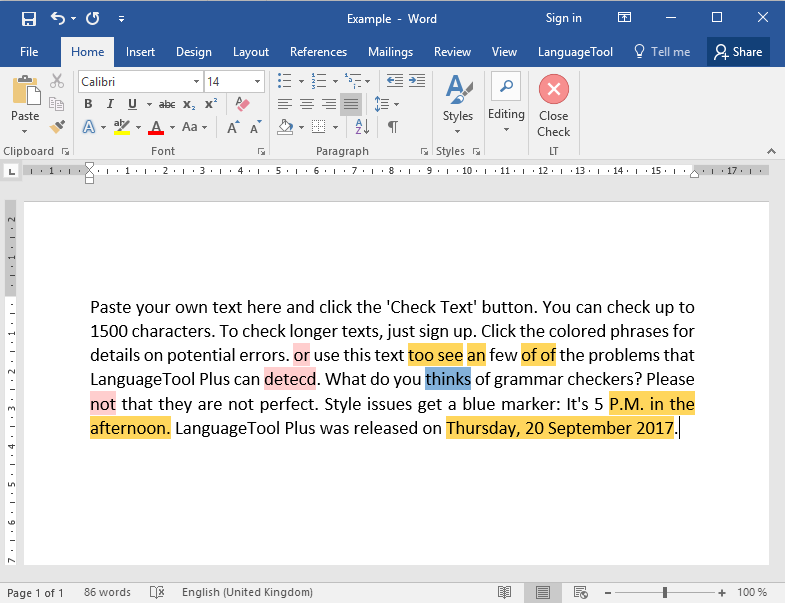
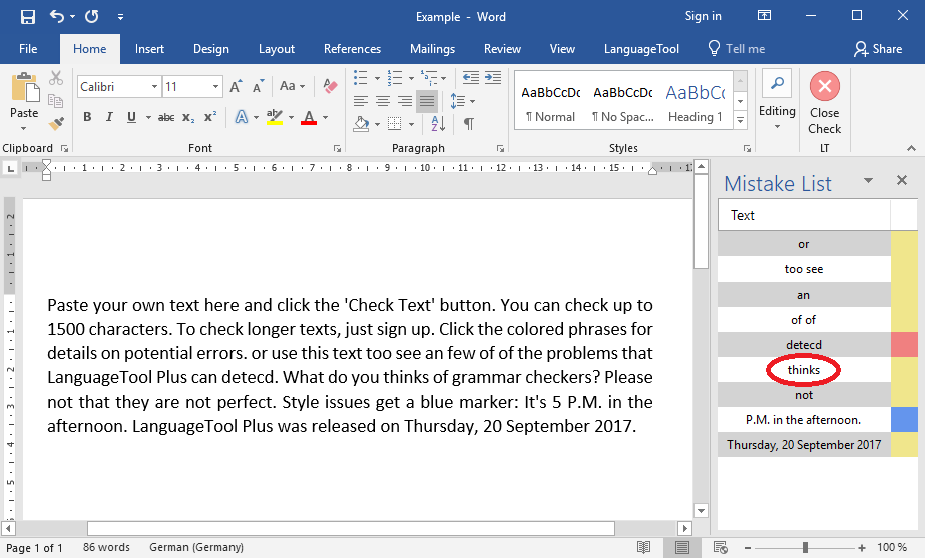
MS Word update

Changed region(s): [[0.0, 0.0, 1.0, 1.0], [0.9172, 0.0, 0.9783, 0.0305]]

diff --git a/resources/views/welcome.blade.php b/resources/views/welcome.blade.php
@@ -283,7 +283,7 @@
                             <li class="glide__slide">
                                 <div class="features row">
                                     <div class="imageLeft col-md-4">
-                                        <a data-lightbox="screenshots" href=/images/msword/en/3.png"><img
+                                        <a data-lightbox="screenshots" href="/images/msword/en/3.png"><img
                                                     class="img-responsive" src="/images/msword/en/3_small.jpg"></a>
                                     </div>
 
@@ -317,21 +317,6 @@
                                         <h2 class="steps-h"><?=__('messages.step_5')?></h2>
                                         <p><?=__('messages.msword_5')?></p>
                                     </div>
-                                </div>
-                            </li>
-                            <li class="glide__slide">
-                                <div class="features row">
-
-                                    <div class="col-sm-12 col-md-4 col-md-push-8">
-                                        <a data-lightbox="screenshots" href="/images/msword/en/6.png"><img
-                                                    class="img-responsive" src="/images/msword/en/6_small.jpg"></a>
-                                    </div>
-
-                                    <div class="col-sm-12 col-md-8 col-md-pull-4">
-                                        <h2 class="steps-h"><?=__('messages.step_6')?></h2>
-                                        <p><?=__('messages.msword_6')?></p>
-                                    </div>
-
                                 </div>
                             </li>
                         </ul>

diff --git a/resources/lang/en/messages.php b/resources/lang/en/messages.php
@@ -101,11 +101,10 @@ return [
     'msword_download_blocked' => '(Download available to premium users at <a href="https://languagetoolplus.com/">languagetoolplus.com</a>)',
     //'msword_known_issues' => 'Known issues of the beta version: doesn\'t work properly with more than one Word document opened at once',
     'msword_1' => 'With the help of the word add-on you can use languagetoolplus.com directly in Word. After installing the add-on, you will have a “Check Page” button in the top right-hand corner of your document. Whenever you would like to check your text, just click that button.',
-    'msword_2' => 'After languagetoolplus.com has checked your text, the detected incorrect words and phrases will be highlighted.',
-    'msword_3' => 'If you click on one of these highlighted words, a window will pop up giving you an explanation and a suggestion.',
+    'msword_2' => 'After languagetoolplus.com has checked your text, the detected incorrect words and phrases will be shown in a list.',
+    'msword_3' => 'If you click on one of these words, a window will pop up giving you an explanation and a suggestion.',
     'msword_4' => 'If you click on a suggested correction, it will substitute the original word...',
     'msword_5' => '...and the marker will be gone.',
-    'msword_6' => 'After you have completely checked your text, you just have to click on “Close Check” and that\'s it!',
     'step_1' => 'Step 1',
     'step_2' => 'Step 2',
     'step_3' => 'Step 3',

diff --git a/resources/lang/de/messages.php b/resources/lang/de/messages.php
@@ -88,11 +88,10 @@ return [
     'msword_download' => 'Jetzt herunterladen (ca. 2,4 MB)',
     'msword_download_blocked' => '(Download verfügbar für Premium-Nutzer auf <a href="https://languagetoolplus.com/">languagetoolplus.com</a>)',
     'msword_1' => 'Mit dem Word Add-on können Sie languagetoolplus.com direkt in Word benutzen. Nach Installation des Add-ons erscheint oben rechts der Button „Seite prüfen“. Wenn Sie Ihren Text überprüfen möchten, klicken Sie einfach auf diesen Button.',
-    'msword_2' => 'Nach der Überprüfung durch languagetoolplus.com erscheinen die fehlerhaften Worte und Phrasen farbig unterlegt.',
-    'msword_3' => 'Klickt man nun auf eine solche Phrase, öffnet sich ein Fenster mit einer Erklärung und einem Verbesserungsvorschlag.',
+    'msword_2' => 'Nach der Überprüfung durch languagetoolplus.com erscheinen die fehlerhaften Wörter in einer Liste.',
+    'msword_3' => 'Klickt man nun auf ein solches Wort, öffnet sich ein Fenster mit einer Erklärung und einem Verbesserungsvorschlag.',
     'msword_4' => 'Klicken Sie auf einen Vorschlag, wird die Verbesserung übernommen...',
     'msword_5' => '...und die farbige Unterlegung entfernt.',
-    'msword_6' => 'Nach der Prüfung noch oben rechts auf „Prüfung schließen“ klicken und fertig!',
     'step_1' => 'Schritt 1',
     'step_2' => 'Schritt 2',
     'step_3' => 'Schritt 3',
